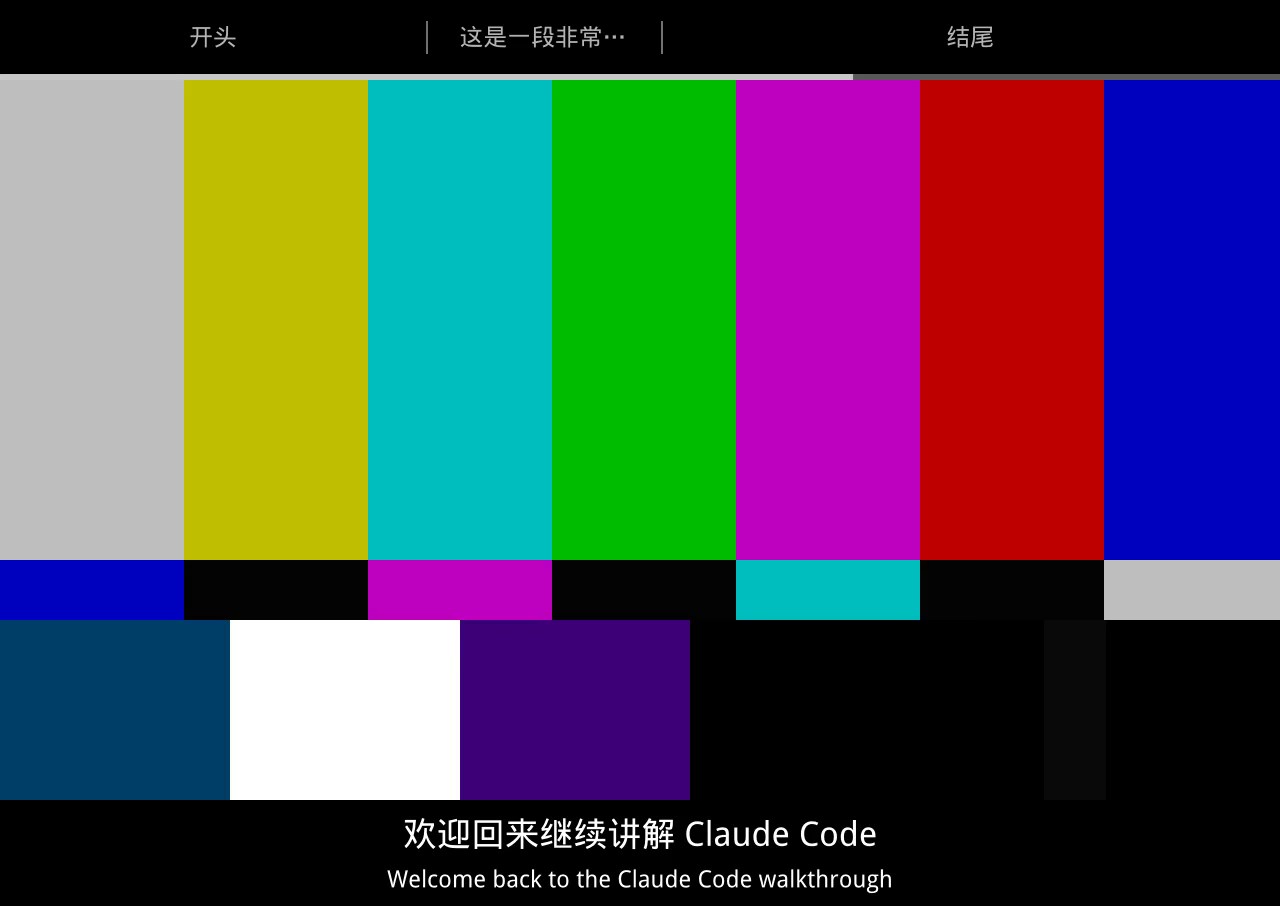
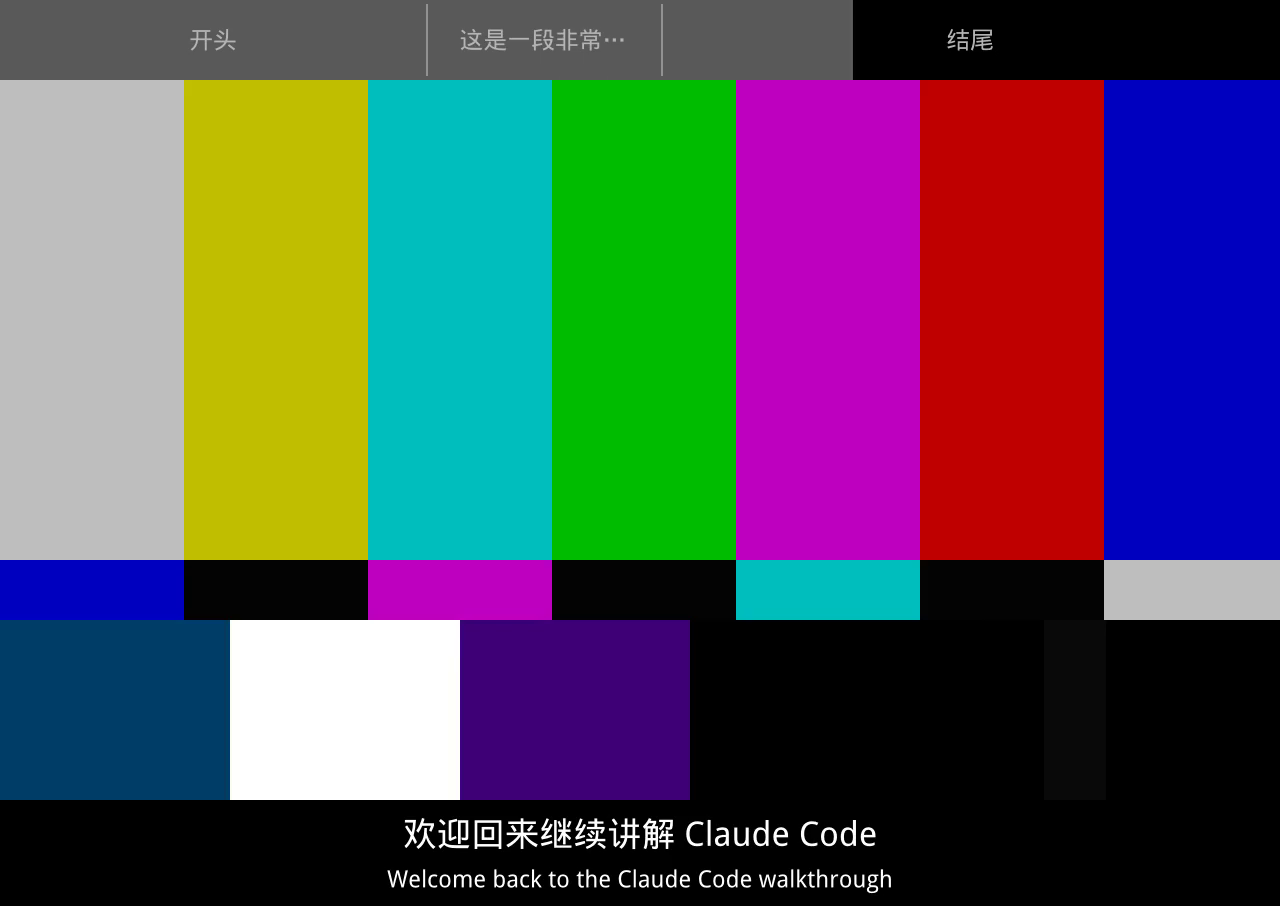
Fuse chapter labels and progress into one top-bar overlay.
Drop the separate thin progress track. Keep the directory always
visible and sweep a translucent light-gray fill across the same
letterbox band as playback advances.

Changed region(s): [[0.0, 0.0, 1.0, 0.0927]]

diff --git a/scripts/burn_subtitles.py b/scripts/burn_subtitles.py
@@ -29,7 +29,7 @@ _SUBTITLE_BOX_MAX_WIDTH_RATIO = 0.92
 _UPSTREAM_PROGRESS_FONT_1080P = 22
 _PROGRESS_LABEL_COLOUR = "&H00B4B4B4&"
 _PROGRESS_FILL_COLOUR = "&H00C8C8C8&"
-_PROGRESS_TRACK_COLOUR = "&H005A5A5A&"
+_PROGRESS_FILL_ALPHA = "&H8C&"
 _CAPTION_PRIMARY_COLOUR = "&H00FFFFFF&"
 _DEFAULT_BEAUTY_STRENGTH_PERCENT = 10.0
 _DEFAULT_BRIGHTEN_STRENGTH_PERCENT = 10.0
@@ -582,13 +582,8 @@ def letterbox_layout(
         if progress
         else 12
     )
-    progress_line_height = max(6, int(round(content_height * 0.007))) if progress else 0
-    if progress_line_height % 2:
-        progress_line_height += 1
     if progress:
-        top_pad = _even_dimension(
-            max(80, int(progress_font * 1.70) + progress_line_height + 18)
-        )
+        top_pad = _even_dimension(max(80, int(progress_font * 2.10)))
     else:
         top_pad = _even_dimension(max(48, int(content_height * 0.044)))
 
@@ -603,8 +598,9 @@ def letterbox_layout(
         bottom_pad += 1
         canvas_height += 1
 
-    progress_line_y = top_pad - progress_line_height
-    progress_label_y = max(progress_font, (top_pad - progress_line_height) // 2)
+    progress_fill_height = top_pad if progress else 0
+    progress_fill_y = 0
+    progress_label_y = top_pad // 2
 
     stack_height = zh_line + stack_gap + en_line
     stack_top = content_height + top_pad + max(0, int((bottom_pad - stack_height) / 2))
@@ -621,9 +617,9 @@ def letterbox_layout(
         "zh_font": zh_font,
         "en_font": en_font,
         "progress_font": progress_font,
-        "progress_line_height": progress_line_height,
+        "progress_fill_height": progress_fill_height,
+        "progress_fill_y": progress_fill_y,
         "progress_label_y": progress_label_y,
-        "progress_line_y": progress_line_y,
         "zh_y": zh_y,
         "en_y": en_y,
         "zh_line_height": zh_line,
@@ -773,35 +769,29 @@ def chapter_slot_max_visual(slot_width_px: int, font_size: int) -> float:
 def _progress_events(
     chapters: list[dict], layout: dict, duration: float
 ) -> tuple[list[str], int, int]:
-    """Draw chapter progress in the top letterbox, never over the picture."""
+    """Draw chapter directory and a translucent fill in one top-letterbox band."""
     if not chapters:
         return [], 0, layout.get("progress_font", 12)
     duration = max(duration, 0.01)
     video_width = layout["canvas_width"]
-    progress_line_height = layout["progress_line_height"]
-    line_y = layout["progress_line_y"]
+    fill_height = layout["progress_fill_height"] or layout["top_pad"]
+    fill_y = layout["progress_fill_y"]
     label_y = layout["progress_label_y"]
     font_size = layout["progress_font"]
-    events = [
-        (
-            f"Dialogue: 0,{seconds_to_ass_time(0)},{seconds_to_ass_time(duration)},"
-            f"CaptionBox,ProgressTrack,0,0,0,,"
-            f"{{\\an7\\pos(0,{line_y})\\p1\\1c{_PROGRESS_TRACK_COLOUR}\\1a&H00&\\bord0\\shad0}}"
-            f"{_rect_path(video_width, progress_line_height)}"
-        )
-    ]
+    events = []
     for tick in range(int(math.ceil(duration))):
         start = float(tick)
         end = min(duration, tick + 1.0)
         fill_width = max(1, int(video_width * end / duration))
         events.append(
-            f"Dialogue: 1,{seconds_to_ass_time(start)},{seconds_to_ass_time(end)},CaptionBox,ProgressFill,0,0,0,,"
-            f"{{\\an7\\pos(0,{line_y})\\p1\\1c{_PROGRESS_FILL_COLOUR}\\1a&H00&\\bord0\\shad0}}"
-            f"{_rect_path(fill_width, progress_line_height)}"
+            f"Dialogue: 0,{seconds_to_ass_time(start)},{seconds_to_ass_time(end)},CaptionBox,ProgressFill,0,0,0,,"
+            f"{{\\an7\\pos(0,{fill_y})\\p1\\1c{_PROGRESS_FILL_COLOUR}"
+            f"\\1a{_PROGRESS_FILL_ALPHA}\\bord0\\shad0}}"
+            f"{_rect_path(fill_width, fill_height)}"
         )
     separator_width = max(2, int(video_width * 0.001))
-    marker_height = max(10, int(layout["top_pad"] * 0.42))
-    marker_y = max(0, label_y - marker_height // 2)
+    marker_height = max(12, layout["top_pad"] - 8)
+    marker_y = max(0, (layout["top_pad"] - marker_height) // 2)
     for chapter in chapters[1:]:
         x = int(video_width * float(chapter["start"]) / duration)
         events.append(

diff --git a/tests/test_burn_subtitles.py b/tests/test_burn_subtitles.py
@@ -166,13 +166,17 @@ class ProgressBarTests(unittest.TestCase):
             content,
         )
         self.assertIn("ProgressFill", content)
-        self.assertIn("ProgressTrack", content)
+        self.assertNotIn("ProgressTrack", content)
         self.assertIn(BURN_SUBTITLES._PROGRESS_FILL_COLOUR, content)
+        self.assertIn(BURN_SUBTITLES._PROGRESS_FILL_ALPHA, content)
         fill_lines = [line for line in content.splitlines() if "ProgressFill" in line]
         self.assertTrue(fill_lines)
         fill_y = int(fill_lines[0].split("pos(0,")[1].split(")")[0])
-        self.assertLess(fill_y, layout["top_pad"])
-        self.assertGreaterEqual(fill_y, layout["top_pad"] - layout["progress_line_height"] - 1)
+        self.assertEqual(fill_y, 0)
+        self.assertEqual(layout["progress_fill_y"], 0)
+        self.assertEqual(layout["progress_fill_height"], layout["top_pad"])
+        self.assertTrue(fill_lines[0].rstrip().endswith(f"l 0 {layout['top_pad']}"))
+        self.assertLess(layout["progress_label_y"], layout["top_pad"])
 
     def test_three_minute_video_does_not_show_progress(self):
         payload = {

diff --git a/tests/test_preview_editor.py b/tests/test_preview_editor.py
@@ -50,7 +50,11 @@ class ProgressLayoutTests(unittest.TestCase):
         self.assertIsNotNone(fill)
         self.assertIsNotNone(label)
         self.assertIn("inset: 0", progress.group("rules"))
-        self.assertIn("background: #c8c8c8", fill.group("rules"))
+        self.assertIn("rgba(200, 200, 200, 0.42)", fill.group("rules"))
+        self.assertIn("top: 0", fill.group("rules"))
+        self.assertIn("bottom: 0", fill.group("rules"))
+        self.assertNotIn("height: 6px", fill.group("rules"))
+        self.assertNotIn("background: #c8c8c8", fill.group("rules"))
         self.assertIn("color: #b4b4b4", label.group("rules"))
         self.assertIn("text-overflow: ellipsis", label.group("rules"))
         self.assertIn("white-space: nowrap", label.group("rules"))

diff --git a/scripts/preview_editor.py b/scripts/preview_editor.py
@@ -193,14 +193,14 @@ HTML_TEMPLATE = r"""<!DOCTYPE html>
   .content-progress-fill {
     position: absolute;
     z-index: 1;
-    top: auto;
+    top: 0;
     bottom: 0;
     left: 0;
-    height: 6px;
+    height: auto;
     width: 0;
-    background: #c8c8c8;
+    background: rgba(200, 200, 200, 0.42);
   }
-  .content-progress-markers { position: absolute; z-index: 2; inset: 18% 0 6px; }
+  .content-progress-markers { position: absolute; z-index: 2; inset: 0; }
   .content-progress-marker {
     position: absolute;
     top: 0;
@@ -211,7 +211,7 @@ HTML_TEMPLATE = r"""<!DOCTYPE html>
   .content-progress-labels {
     position: absolute;
     z-index: 3;
-    inset: 0 0 8px;
+    inset: 0;
   }
   .content-progress-label {
     position: absolute;

diff --git a/SKILL.md b/SKILL.md
@@ -18,14 +18,14 @@ description: >
 ## 默认行为
 
 - 默认烧录中英同屏。审校后的中文在烧录前按上游「英文 SRT 分支」的规则逐条翻译（或读取已有 `en` / `--en-srt`），写入 ASS：中文在上、英文在下，白色，放在下方黑边。用户明确只要英文字幕文件时，仍走英文 SRT 分支：不生成 ASS、不烧录、不预览。用户只要中文成片时传 `--no-bilingual`。默认使用 DashScope Python SDK 调用百炼 FunAudio ASR；字幕断句、长视频章节和英文翻译由百炼 Qwen 完成，全部共用一个 API Key。旧本地 Whisper 仅用于明确比较或远程服务不可用时的降级。
-- 成片默认 letterbox：FFmpeg `pad` 在原画面上下加黑边，中间不缩放、不把字幕叠回画面中央。上方黑边主内容是上游原来在画面底部的章节进度条：横向按「开头 | 中间 | 结尾」这类区段划分，浅灰进度随播放推进，标签比上游 1080p 默认约 22px 更大。没有章节数据时上黑边保持空白，不烧运行时钟。区段太窄而标题太长时用省略号截断并保持单行；不在成片里做跑马灯（ASS `\move`+`\clip` 循环不稳定）。
+- 成片默认 letterbox：FFmpeg `pad` 在原画面上下加黑边，中间不缩放、不把字幕叠回画面中央。上方黑边主内容是章节目录（横向「开头 | 中间 | 结尾」这类区段，标签比上游 1080p 默认约 22px 更大），半透明浅灰进度叠在同一条带上随播放从左往右推进，不再单独画一条细进度条。没有章节数据时上黑边保持空白，不烧运行时钟。区段太窄而标题太长时用省略号截断并保持单行；不在成片里做跑马灯（ASS `\move`+`\clip` 循环不稳定）。
 - 单条中文、单条英文都尽量保持一行。限宽按黑边可用宽度计算；过长时才按标点/词界折行。超长专有名词或英文明显长于中文时无法完全消灭折行。
 - ASR 自动应用外部 hotwords 和 glossary；随后由 Agent 通读整份转录稿并补充高置信错误。`review_subtitles.py` 只复制原文和生成疑点清单，自动改词数必须为 0。
 - 型号、版本号、命令、文件名和界面文字需要结合口播上下文核对。画面中的项目名、窗口标题或侧边栏背景文字只有与口播属于同一指代时才能作为证据；看不清或无法确认时保留原文，交给用户预览。
 - 用户在预览页保存字幕时，脚本只比较修改前后内容并生成待 Agent 审阅的 `manual-edit-review.json`，不得调用模型或自动写入 glossary。Agent 只把稳定、可复用且上下文安全的 ASR 映射写入个人 glossary；润色、删句、标点和一次性改写一律忽略。
 - 字幕默认不显示标点；人工审阅过的 SRT 通过 `--srt-input` 直烧时保持文本、换行和时间码不变。
 - 正常中文字幕默认在中文与英文或数字的边界补一个半角空格，例如 `使用Claude Code做AI实战` 显示为 `使用 Claude Code 做 AI 实战`。该规则在准备阶段统一写入预览字幕，并在烧录阶段幂等复用；用户不需要手工逐条加空格，纯空格变化也不进入错题本。
-- 章节进度功能默认开启。视频严格超过三分钟时，在上方黑边用横向分区进度条和浅灰进度展示宽粒度章节；不覆盖原始画面，也不把每个小点拆成章节。
+- 章节进度功能默认开启。视频严格超过三分钟时，在上方黑边用章节目录和半透明浅灰进度叠在同一条带上展示宽粒度章节；不覆盖原始画面，也不把每个小点拆成章节。
 - 用户只要用自然语言说“关闭章节进度条”或同义表达，本次任务就在准备和烧录命令中都传 `--no-progress`，不生成章节，也不显示进度条；用户说“开启章节进度条”时传 `--progress`。这是单次任务开关，不要求用户修改配置文件。
 - 正常烧录会识别持续出现的人脸区域并执行固定轻度美颜；用户要求保持原画时传 `--no-beauty`。
 - 不覆盖已有 MP4、SRT 或 ASS。目标存在时使用新文件名，除非用户明确同意覆盖。
@@ -256,7 +256,7 @@ PY
 检查：
 
 - 输出文件可播放，时长与源视频一致，画面高度因上下黑边而大于片源；
-- 开头、中段、结尾字幕与声音同步；上方为章节进度条（有章节时），下方为中英白字，中间为未叠字的原画；无运行时钟；
+- 开头、中段、结尾字幕与声音同步；上方为章节目录与半透明进度叠在同一条带（有章节时），下方为中英白字，中间为未叠字的原画；无运行时钟、无独立细进度条；
 - 字幕没有遮挡持续出现的人脸区域（字幕在黑边内）；
 - 章节标题若启用，只出现在上方黑边，不与字幕重叠；
 - 是否启用美颜、是否双语、输出路径与用户要求一致。

diff --git a/README.md b/README.md
@@ -8,7 +8,7 @@
 
 上游仓库的 GitHub `license` 字段目前为空。本 fork 仍明确致谢原作者与上游版权，详见 [NOTICE](NOTICE) 与下方「上游致谢」。
 
-把已经导出的 MP4、MOV 交给 Agent，依次完成转录、术语纠错、人工预览、章节生成和 FFmpeg 烧录。默认烧录 **letterbox 双语成片**：原画面居中，上下加黑边；**上方**是上游原来在画面底部的那种**章节进度条**（横向分区 + 浅灰进度随播放推进，标签比上游默认更大），**下方中英白字同屏**（中文在上、英文在下）。只需要一个百炼 API Key。
+把已经导出的 MP4、MOV 交给 Agent，依次完成转录、术语纠错、人工预览、章节生成和 FFmpeg 烧录。默认烧录 **letterbox 双语成片**：原画面居中，上下加黑边；**上方**是章节目录（如「开头 | 中间 | 结尾」）与半透明浅灰进度叠在同一条带上，随播放从左往右推进；**下方中英白字同屏**（中文在上、英文在下）。只需要一个百炼 API Key。
 
 也可以只导出英文 SRT（与上游「英文 SRT 分支」相同）：保留原时间轴，不启动预览、不生成章节、不烧录视频。
 
@@ -29,7 +29,7 @@
 | | 上游 oil-subtitle | 本 fork（chaochun-subtitle） |
 | --- | --- | --- |
 | 成片画布 | 字幕叠在原始画面内，底部 MarginV + 半透明底 | 上下黑边 letterbox，中间保留原画 |
-| 章节进度 | 画面底部半透明渐变条，标签约 22px（1080p） | 整条迁到上方黑边；浅灰加大；短区段长标题用省略号单行截断 |
+| 章节进度 | 画面底部半透明渐变条，标签约 22px（1080p） | 迁到上方黑边；目录标签与半透明浅灰进度叠在同一条带，不再单独画细进度条；短区段长标题用省略号单行截断 |
 | 字幕 | 默认只烧中文白字 | 默认中英同屏白字，中文在上、英文在下 |
 | 英文 | 单独的「英文 SRT 分支」，不进入默认烧录 | 沿用该翻译分支接到 ASS/烧录；`--no-bilingual` 可退回只烧中文 |
 | 折行 | 偏保守的每行字数，容易一条变两行 | 按黑边宽度尽量单行；中英各自尽量不折行 |
@@ -39,7 +39,7 @@
 ## 效果预览
 
 <p align="center">
-  <img src="./assets/readme/letterbox-bilingual-frame.png" width="100%" alt="letterbox 成片：上黑边章节进度条，下黑边中英白字，中间为原画面">
+  <img src="./assets/readme/letterbox-bilingual-frame.png" width="100%" alt="letterbox 成片：上黑边章节目录与半透明进度叠在同一条带，下黑边中英白字，中间为原画面">
 </p>
 
 <p align="center">
@@ -78,7 +78,7 @@ demo_subtitled.mp4
 2. 通过 DashScope Python SDK 调用百炼 FunAudio ASR，保留原始识别结果和词级时间戳。
 3. 在识别阶段应用 hotwords，再用 glossary 修正常见误识别。
 4. 脚本原样复制转录稿并生成技术词聚焦清单；Agent 通读全部字幕，结合上下文、音频和必要画面修正错词。百炼模型不自动修改字幕正文。
-5. 用 Qwen 完成字幕级断句；章节进度默认开启，视频严格超过 3 分钟时生成 2–6 个宽粒度章节，并在**上方黑边**展示横向分区进度条，不压原画和字幕。区段太窄、标题太长时用省略号截断为单行。
+5. 用 Qwen 完成字幕级断句；章节进度默认开启，视频严格超过 3 分钟时生成 2–6 个宽粒度章节，并在**上方黑边**用同一条带展示章节目录和半透明浅灰进度，不压原画和字幕。区段太窄、标题太长时用省略号截断为单行。
 6. 启动本地字幕编辑器，由用户检查 Agent 校对结果，并按需修改或删除字幕。
 7. 保存时自动提取人工修改并生成待审报告；Agent 判断是否需要显式加入个人 glossary，脚本不会自动写入。
 8. 生成中文 SRT、英文 SRT、ASS，并用 FFmpeg **pad 上下黑边**后一次烧录成片。烧录前若还没有英文，则按上游英文翻译规则逐条译出并写入 ASS。
